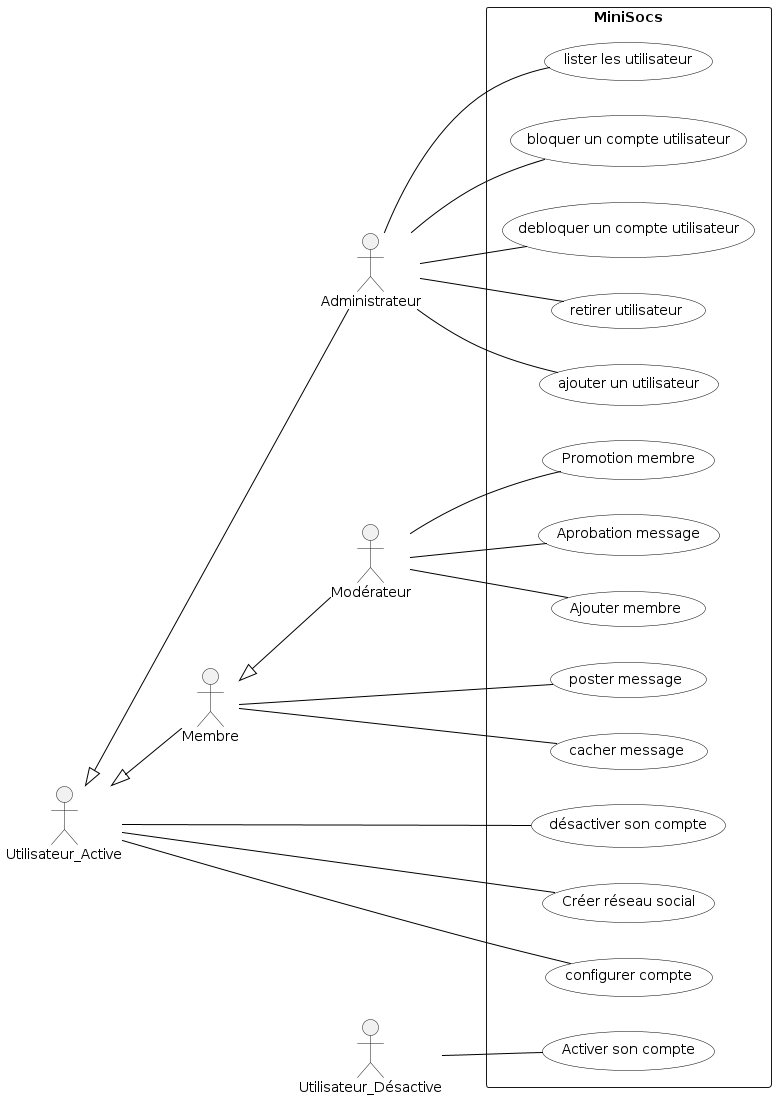
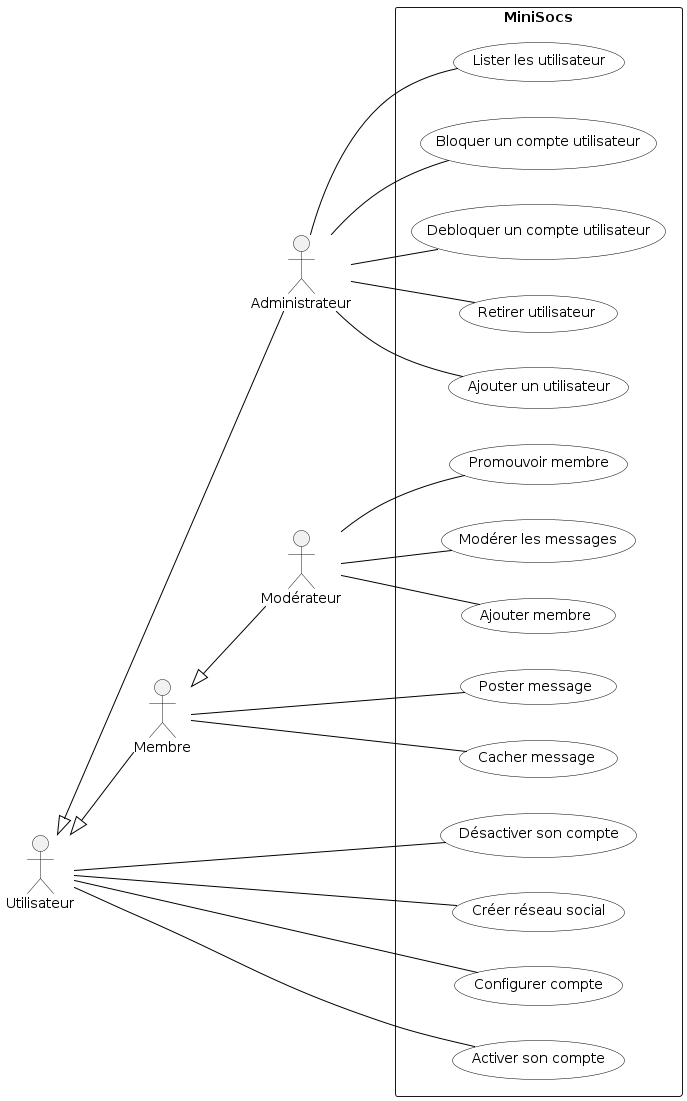
Diagramme cas d'utilisation modifié postcondtion precondition tables de décision

diff --git a/readme.md b/readme.md
@@ -1,8 +1,8 @@
 # Gestion de mini réseaux sociaux MiniSocs
 
 Binôme :
-* Prénom1 NOM1
-* Prénom2 NOM2
+* Yesmine LAJMICHERIF
+* Sabrine AZAIEZ
 
 ## Syntaxe MarkDown
 
@@ -85,11 +85,43 @@ priorité HAUTE.
 - précondition : \
 ∧ pseudo bien formé (non null ∧ non vide) \
 ∧ le compte n'est pas bloqué \
+∧ le compte n'est pas désactivé \
 ∧ utilisateur avec ce pseudo existant
 - postcondition : le compte de l'utilisateur est désactivé
 
-NB : l'opération est idempotente.
+#### Ajouter membre (HAUTE)
+- précondition : \
+∧ pseudo bien formé (non null ∧ non vide) \
+∧ utilisateur(à ajouter) (existe ∧ le compte n'est pas bloqué ∧  le compte n'est pas désactivé ∧ n'est pas dans le réseau) \
+∧ L'ajout se fait par un modérateur ∧  l'ajout se fait dans un réseau social qui le modére 
+- postcondition : membre ajouté 
 
+#### Modérer les messages (HAUTE)
+
+- précondition : \
+∧ message en attente de modération \
+∧ l'utilisateur qui modére le message a les droits de modérations  ∧ compte actif ∧ compte n'est pas bloqué \
+- postcondition : \
+∧ Si le modérateur accepte le message il sera visible dans le réseau \
+∧ Sinon si le modérateur refuse le message, il aura le statut non accepté et reste non visible dans le réseau
+
+#### Poster Message (HAUTE)
+- précondition : \
+∧ Celui qui poste est (un membre du réseau ∧ a un compte actif ∧ a un compte non bloqué) \
+∧ Le post est (non null ∧ non vide) \
+∧ Postcondition : \
+∧ Si le membre est un modérateur le message est publié \
+∧ Si non le message est en attente de modération
+
+#### Créer réseau social (HAUTE)
+- précondition : \
+^ Le compte de l'utilisateur est (actif ∧ non bloqué) \
+∧ postcondition : \
+∧ Le réseau est créé
+∧ L'utilisateur avec droit de modération du réseau 
+
+
+NB : l'opération est idempotente.
 #### Autres cas d'utilisation et leur priorité respective
 
 - Retirer un utilisateur (basse)
@@ -97,6 +129,16 @@ NB : l'opération est idempotente.
 - Bloquer le compte d'un utilisateur (basse)
 
 - Lister les utilisateurs (moyenne)
+
+- Débloquer le compte d'un utilisateur (basse)
+
+- Promotion membre (moyenne) 
+
+- Cacher message (moyenne)
+
+- Configurer compte (basse)
+
+- Activer son compte (moyenne)
 
 ## 2. Préparation des tests de validation des cas d'utilisation
 
@@ -131,6 +173,50 @@ conditions.
 | le compte de l'utilisateur est désactivé | F | F | F | T |
 |                                          |   |   |   |   |
 | nombre de tests dans le jeu de tests     | 2 | 1 | 1 | 1 |
+
+#### Ajouter membre (HAUTE)
+|                                                     | 1 | 2 | 3 | 4 |
+|:----------------------------------------------------|:--|:--|:--|:--|
+| pseudo bien formé (non null ∧ non vide)              | F | T | T | T |
+| utilisateur(à ajouter) (existe ∧ le compte n'est pas bloqué ∧  le compte n'est pas désactivé ∧ n'est pas dans le réseau)             |   | F | T | T |
+| L'ajout se fait par ( un modérateur ∧ dans un réseau social qui le modere )            |   |   | F | T |
+| membre ajouté  |  F |  F |  F | T 
+nombre de tests dans le jeu de tests                | 2 | 4 | 2 | 1
+
+#### Modérer les messages (HAUTE)
+
+|                                          | 1 | 2 | 3 | 4 |
+|:-----------------------------------------|:--|:--|:--|:--|
+| message en attente de modération   | F | T | T | T |
+| l'utilisateur qui modére le message a les droits de modérations  ∧ compte active  ∧ compte n'est pas bloqué |   | F | T | T |
+| Si le modérateur accepte le message il sera visible dans le réseau      |  F |  F | F | T |
+|                                          |   |   |   |   |
+| Sinon si le modérateur refuse le message aura le statut non accepté et reste non visible dans le réseau | F | F | T | F  |
+|                                          |   |   |   |   |
+| nombre de tests dans le jeu de tests     | 1 | 3 | 1 | 1 |
+
+#### Poster Message (HAUTE)
+
+|                                          | 1 | 2 | 3 | 4 |
+|:-----------------------------------------|:--|:--|:--|:--|
+| Celui qui poste est (un membre du réseau ∧ a un compte actif ∧ a un compte non bloqué)    | F | T | T | T |
+| Le post est (non null ∧ non vide) |   | F | T | T |
+| Si le membre est un modérateur le message est publié    |  F |  F | F | T |
+|                                          |   |   |   |   |
+| Sinon le message est en attente de modération | F | F | T | F  |
+|                                          |   |   |   |   |
+| nombre de tests dans le jeu de tests     | 3 | 2 | 1 | 1 |
+
+#### Créer réseau social (HAUTE)
+
+
+|                                          | 1 | 2 |
+|:-----------------------------------------|:--|:--|
+| Le compte de l'utilisateur est (active ∧ non bloqué)    | F | T | 
+| Le réseau est créé | F  | T |
+| L'utilisateur avec droit de modération du réseau   |  F |  T | 
+|                                           |   |   |   |   |
+| nombre de tests dans le jeu de tests     | 2 | 1 | 
 
 # 3. Conception
 
